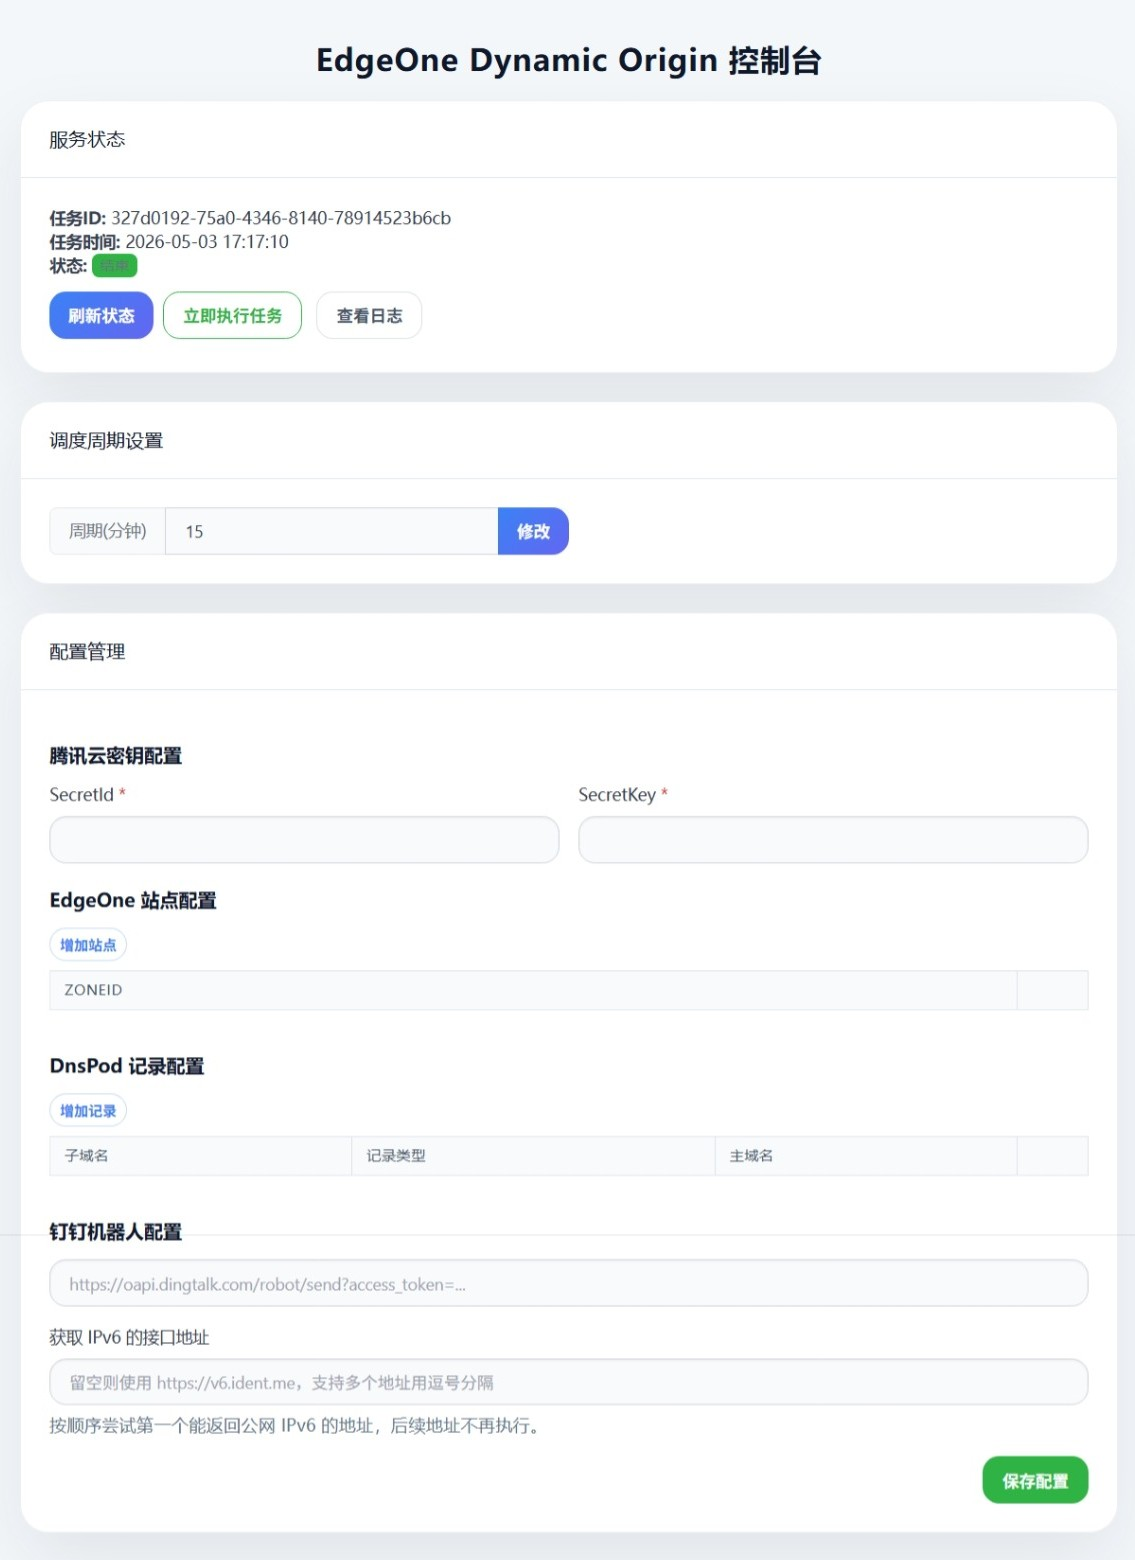
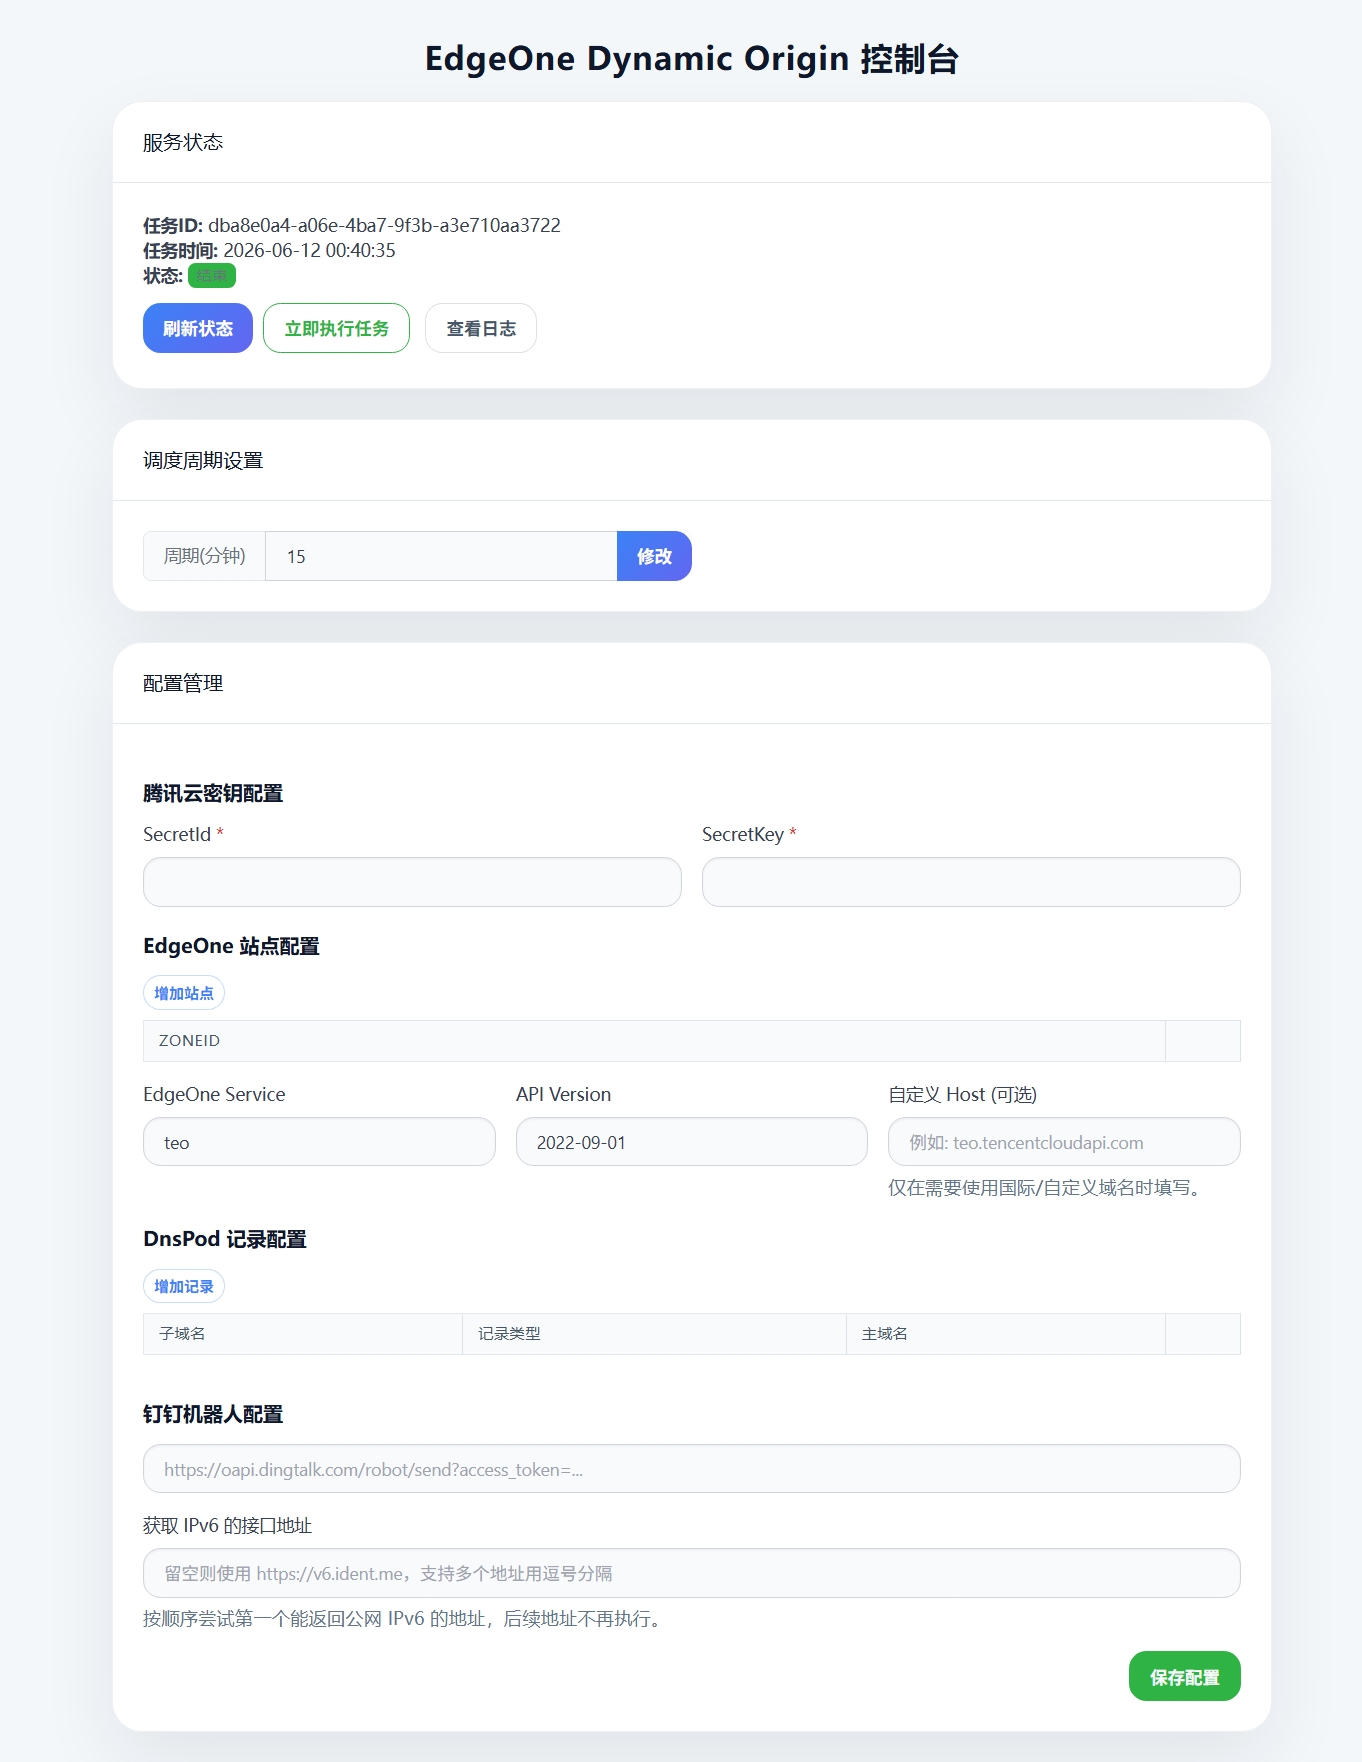
新增国际版支持

diff --git a/src/eodo/static/index.html b/src/eodo/static/index.html
@@ -192,6 +192,21 @@
             </tbody>
           </table>
         </div>
+        <div class="row g-3 mb-3">
+          <div class="col-md-4">
+            <label class="form-label">EdgeOne Service</label>
+            <input class="form-control" type="text" name="EdgeOneService" id="EdgeOneService" placeholder="teo">
+          </div>
+          <div class="col-md-4">
+            <label class="form-label">API Version</label>
+            <input class="form-control" type="text" name="EdgeOneVersion" id="EdgeOneVersion" placeholder="2022-09-01">
+          </div>
+          <div class="col-md-4">
+            <label class="form-label">自定义 Host (可选)</label>
+            <input class="form-control" type="text" name="EdgeOneHost" id="EdgeOneHost" placeholder="例如: teo.tencentcloudapi.com">
+            <div class="form-text">仅在需要使用国际/自定义域名时填写。</div>
+          </div>
+        </div>
         <!-- DnsPod记录配置 -->
         <div class="form-section-hd">DnsPod 记录配置</div>
         <div class="mb-2">
@@ -353,6 +368,9 @@ function fetchConfig(){
         document.getElementById('SecretId').value = res?.TencentCloud?.SecretId||"";
         document.getElementById('SecretKey').value = res?.TencentCloud?.SecretKey||"";
         setEdgeOneTable(Array.isArray(res?.EdgeOneZoneId) ? res.EdgeOneZoneId : (typeof res.EdgeOneZoneId==="string"?[res.EdgeOneZoneId] : []));
+        document.getElementById('EdgeOneService').value = res?.EdgeOneService||"teo";
+        document.getElementById('EdgeOneVersion').value = res?.EdgeOneVersion||"2022-09-01";
+        document.getElementById('EdgeOneHost').value = res?.EdgeOneHost||"";
         setDnsPodTable(Array.isArray(res?.DnsPodRecord) ? res.DnsPodRecord : (typeof res.DnsPodRecord==="string"?[res.DnsPodRecord] : []));
         document.getElementById('DingTalkWebhook').value = res?.DingTalkWebhook||"";
         document.getElementById('Ipv6Urls').value = res?.Ipv6Urls||"";
@@ -367,6 +385,9 @@ document.getElementById('configForm').onsubmit = function(e){
         SecretKey: this.SecretKey.value.trim()
       },
       EdgeOneZoneId: getEdgeOneZoneArr(),
+      EdgeOneService: this.EdgeOneService.value.trim() || 'teo',
+      EdgeOneVersion: this.EdgeOneVersion.value.trim() || '2022-09-01',
+      EdgeOneHost: this.EdgeOneHost.value.trim(),
       DnsPodRecord: getDnsPodRecordArr(),
       DingTalkWebhook: this.DingTalkWebhook.value.trim(),
       Ipv6Urls: this.Ipv6Urls.value.trim(),

diff --git a/src/eodo/app.py b/src/eodo/app.py
@@ -79,9 +79,10 @@ def read_config():
 
 # =================== 腾讯云API类 ===================
 class QcloudClient:
-    def __init__(self, secret, service='teo', version='2022-09-01'):
+    def __init__(self, secret, service='teo', version='2022-09-01', host_override: str | None = None):
         self.service: str = service
-        self.host: str = f'{service}.tencentcloudapi.com'
+        # allow overriding host for international/custom endpoints
+        self.host: str = host_override if host_override else f'{service}.tencentcloudapi.com'
         self.version: str = version
         self.algorithm: str = 'TC3-HMAC-SHA256'
         self.content_type: str = 'application/json; charset=utf-8'
@@ -320,7 +321,10 @@ def update_task(task_id=""):
         logger.info(f"[{task_id}] 获取公网 IPV6 地址成功，地址为：{",".join(iptool.public_ipv6)}")
 
     if eo_zones:
-        eo_client = QcloudClient(secret=qcloud_secret, service='teo', version='2022-09-01')
+        eo_service = config.get('EdgeOneService', 'teo')
+        eo_version = config.get('EdgeOneVersion', '2022-09-01')
+        eo_host = config.get('EdgeOneHost') or None
+        eo_client = QcloudClient(secret=qcloud_secret, service=eo_service, version=eo_version, host_override=eo_host)
         for zone in eo_zones:
             origin_groups = eo_client.describe_origin_group(zone)
 
